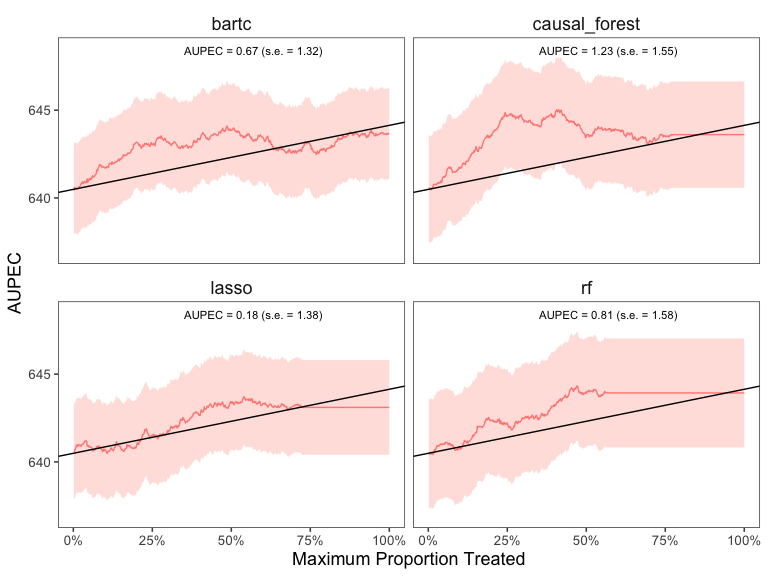
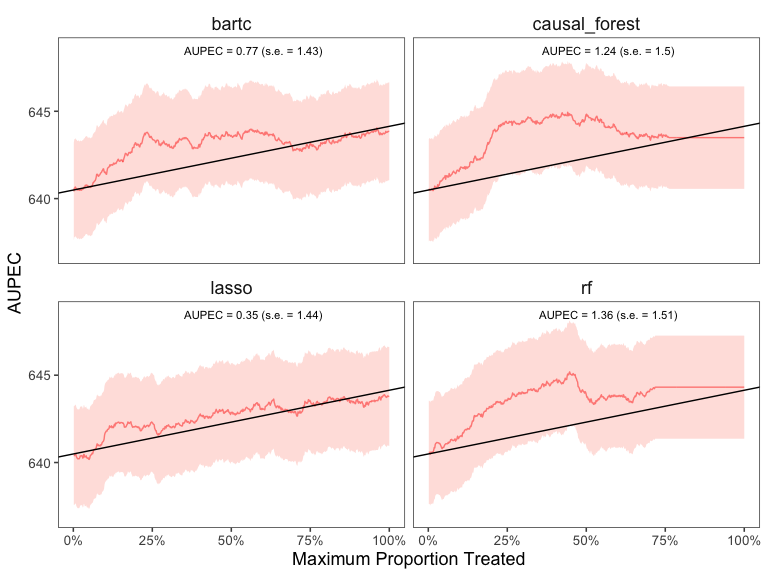
add additional params

diff --git a/README.md b/README.md
@@ -101,28 +101,35 @@ further information about `caret`, see
 # alternatively (with caret package)
 
 # specify the trainControl method
-fitControl <- caret::trainControl(## 10-fold CV
+fitControl <- caret::trainControl(## 3-fold CV
                            method = "repeatedcv",
                            number = 3,
-                           ## repeated ten times
+                           ## repeated 3 times
                            repeats = 3)
+
+# specify the tuning grid
+gbmGrid <-  expand.grid(interaction.depth = c(1, 5, 9), 
+                        n.trees = (1:30)*50, 
+                        shrinkage = 0.1,
+                        n.minobsinnode = 20)
 
 # estimate ITR
 fit_caret <- estimate_itr(
-               treatment = treatment,
-                form = user_formula,
-               data = star_data,
-               algorithms = c("rf"),
-               budget = 0.2,
-               ratio = 0.7,
-               preProcess = NULL, # pre-processing predictors
-               tuneGrid = NULL, # tuning values
-               tuneLength = 1, # granularity in tuning
-               trControl = fitControl # trainControl method)
-                )
+              treatment = "treatment",
+              form = user_formula,
+              trControl = fitControl,
+              data = star_data,
+              algorithms = c("gbm"),
+              budget = 0.2,
+              ratio = 0.7,
+              tuneGrid = gbmGrid,
+              verbose = FALSE)
 
-
+# evaluate ITR
 est_caret <- evaluate_itr(fit_caret)
+
+# check the final model
+est_caret$estimates$models$gbm$finalModel
 ```
 
 The`summary()` function displays the following summary statistics: (1)
@@ -142,26 +149,26 @@ design are given in [Imai and Li
 summary(est)
 #> ── PAPE ────────────────────────────────────────────────────────────────────────
 #>   estimate std.deviation     algorithm statistic p.value
-#> 1    -0.44           1.1 causal_forest     -0.42    0.67
+#> 1    -0.49          0.95 causal_forest     -0.51    0.61
 #> 
 #> ── PAPEp ───────────────────────────────────────────────────────────────────────
 #>   estimate std.deviation     algorithm statistic p.value
-#> 1      3.6           1.3 causal_forest       2.7  0.0061
+#> 1      1.8           1.1 causal_forest       1.6     0.1
 #> 
 #> ── PAPDp ───────────────────────────────────────────────────────────────────────
 #> data frame with 0 columns and 0 rows
 #> 
 #> ── AUPEC ───────────────────────────────────────────────────────────────────────
 #>   estimate std.deviation     algorithm statistic p.value
-#> 1      2.5          0.97 causal_forest       2.6    0.01
+#> 1      1.2          0.84 causal_forest       1.5    0.15
 #> 
 #> ── GATE ────────────────────────────────────────────────────────────────────────
 #>   estimate std.deviation     algorithm group statistic p.value upper lower
-#> 1     -9.6           109 causal_forest     1    -0.088    0.93  -176   182
-#> 2    -20.4           108 causal_forest     2    -0.188    0.85  -175   181
-#> 3    -36.4           110 causal_forest     3    -0.332    0.74  -177   183
-#> 4     -9.8           107 causal_forest     4    -0.092    0.93  -174   179
-#> 5     89.8           109 causal_forest     5     0.823    0.41  -177   182
+#> 1    120.3           109 causal_forest     1     1.108    0.27  -181   177
+#> 2   -110.1           108 causal_forest     2    -1.023    0.31  -179   175
+#> 3     -2.7           108 causal_forest     3    -0.025    0.98  -179   175
+#> 4   -111.7           107 causal_forest     4    -1.047    0.29  -177   174
+#> 5     94.7           108 causal_forest     5     0.876    0.38  -180   176
 
 # summarize estimates with model trained using caret
 # summary(est_caret)
@@ -256,10 +263,9 @@ estimating heterogeneous treatment effects across groups.
 
 ``` r
 # specify the trainControl method
-fitControl <- caret::trainControl(## 10-fold CV
+fitControl <- caret::trainControl(
                            method = "repeatedcv",
                            number = 3,
-                           ## repeated ten times
                            repeats = 3)
 # estimate ITR
 set.seed(2021)
@@ -267,12 +273,12 @@ fit_cv <- estimate_itr(
                treatment = "treatment",
                form = user_formula,
                data = star_data,
-               trcontrol = fitControl,
+               trControl = fitControl,
                algorithms = c(
                   "causal_forest", 
                   "bartc",
-                  "lasso",
-                  "rf"), # from caret package
+                  "lasso", # from caret package
+                  "rf"), 
                budget = 0.2,
                n_folds = 3)
 #> Evaluate ITR with cross-validation ...
@@ -290,56 +296,56 @@ est_cv <- evaluate_itr(fit_cv)
 summary(est_cv)
 #> ── PAPE ────────────────────────────────────────────────────────────────────────
 #>   estimate std.deviation     algorithm statistic p.value
-#> 1     0.55          0.73 causal_forest      0.75   0.452
-#> 2    -0.34          0.31         bartc     -1.10   0.272
-#> 3     0.17          1.07         lasso      0.16   0.871
-#> 4     1.41          0.80            rf      1.76   0.078
+#> 1     0.36          0.93 causal_forest      0.39   0.697
+#> 2    -0.20          0.40         bartc     -0.51   0.613
+#> 3    -0.29          0.22         lasso     -1.29   0.197
+#> 4     1.35          0.74            rf      1.83   0.067
 #> 
 #> ── PAPEp ───────────────────────────────────────────────────────────────────────
 #>   estimate std.deviation     algorithm statistic p.value
-#> 1      2.4          0.65 causal_forest      3.63 0.00029
-#> 2      2.0          0.82         bartc      2.41 0.01579
-#> 3     -0.2          0.63         lasso     -0.33 0.74490
-#> 4      1.2          0.67            rf      1.77 0.07603
+#> 1     2.38          0.66 causal_forest       3.6 0.00029
+#> 2     1.86          0.63         bartc       2.9 0.00326
+#> 3     0.87          1.08         lasso       0.8 0.42083
+#> 4     1.96          1.12            rf       1.8 0.07940
 #> 
 #> ── PAPDp ───────────────────────────────────────────────────────────────────────
 #>   estimate std.deviation             algorithm statistic p.value
-#> 1     0.38          0.68 causal_forest x bartc      0.56  0.5777
-#> 2     2.56          0.81 causal_forest x lasso      3.18  0.0015
-#> 3     1.16          0.67    causal_forest x rf      1.73  0.0844
-#> 4     2.18          1.13         bartc x lasso      1.92  0.0543
-#> 5     0.78          0.85            bartc x rf      0.93  0.3539
-#> 6    -1.40          0.81            lasso x rf     -1.73  0.0837
+#> 1     0.51          0.68 causal_forest x bartc      0.76    0.45
+#> 2     1.51          1.29 causal_forest x lasso      1.17    0.24
+#> 3     0.41          0.99    causal_forest x rf      0.42    0.68
+#> 4     0.99          0.79         bartc x lasso      1.25    0.21
+#> 5    -0.10          0.79            bartc x rf     -0.13    0.90
+#> 6    -1.09          1.35            lasso x rf     -0.81    0.42
 #> 
 #> ── AUPEC ───────────────────────────────────────────────────────────────────────
 #>   estimate std.deviation     algorithm statistic p.value
-#> 1     1.23           1.5 causal_forest      0.80    0.43
-#> 2     0.67           1.3         bartc      0.51    0.61
-#> 3     0.18           1.4         lasso      0.13    0.90
-#> 4     0.81           1.6            rf      0.51    0.61
+#> 1     1.24           1.5 causal_forest      0.83    0.41
+#> 2     0.77           1.4         bartc      0.54    0.59
+#> 3     0.35           1.4         lasso      0.24    0.81
+#> 4     1.36           1.5            rf      0.90    0.37
 #> 
 #> ── GATE ────────────────────────────────────────────────────────────────────────
 #>    estimate std.deviation     algorithm group statistic p.value upper lower
-#> 1     -98.6            59 causal_forest     1    -1.676   0.094   -93   100
-#> 2      54.8            60 causal_forest     2     0.921   0.357   -94   102
-#> 3      26.6            59 causal_forest     3     0.452   0.651   -93   100
-#> 4      -4.2            75 causal_forest     4    -0.056   0.955  -120   127
-#> 5      39.6           102 causal_forest     5     0.389   0.698  -164   171
-#> 6      55.5            86         bartc     1     0.645   0.519  -138   145
-#> 7    -192.6            75         bartc     2    -2.554   0.011  -120   128
-#> 8      38.2            86         bartc     3     0.445   0.656  -138   145
-#> 9      65.7            83         bartc     4     0.796   0.426  -132   139
-#> 10     51.4            89         bartc     5     0.577   0.564  -143   150
-#> 11    -14.4            94         lasso     1    -0.154   0.878  -150   158
-#> 12    -87.3            88         lasso     2    -0.994   0.320  -141   148
-#> 13     80.7            98         lasso     3     0.825   0.409  -157   165
-#> 14     12.6            59         lasso     4     0.214   0.830   -93   100
-#> 15     26.6            59         lasso     5     0.451   0.652   -93   101
-#> 16    -26.6            59            rf     1    -0.450   0.653   -93   101
-#> 17    -35.8            79            rf     2    -0.454   0.649  -126   133
-#> 18     18.4            99            rf     3     0.186   0.852  -159   167
-#> 19     28.1            59            rf     4     0.479   0.632   -93   100
-#> 20     34.0            59            rf     5     0.572   0.567   -94   102
+#> 1    -124.7            59 causal_forest     1    -2.122   0.034   -93   100
+#> 2      94.3            60 causal_forest     2     1.582   0.114   -94   102
+#> 3      13.1            59 causal_forest     3     0.222   0.825   -93   101
+#> 4       3.0            59 causal_forest     4     0.051   0.960   -93   101
+#> 5      32.5            98 causal_forest     5     0.332   0.740  -157   165
+#> 6     -14.7            82         bartc     1    -0.180   0.858  -131   138
+#> 7    -137.3            87         bartc     2    -1.587   0.113  -139   146
+#> 8      54.1            79         bartc     3     0.687   0.492  -126   133
+#> 9      85.3            74         bartc     4     1.156   0.248  -118   125
+#> 10     30.7            79         bartc     5     0.391   0.696  -126   133
+#> 11     71.6            59         lasso     1     1.210   0.226   -94   101
+#> 12     -4.1           101         lasso     2    -0.041   0.968  -162   169
+#> 13    -95.5            98         lasso     3    -0.973   0.331  -158   165
+#> 14     27.2            85         lasso     4     0.319   0.750  -137   144
+#> 15     19.0            62         lasso     5     0.303   0.762   -99   106
+#> 16      9.8            59            rf     1     0.168   0.867   -93   100
+#> 17    -20.1            59            rf     2    -0.338   0.735   -94   101
+#> 18    -61.4            59            rf     3    -1.046   0.296   -93   100
+#> 19     64.9            59            rf     4     1.101   0.271   -93   101
+#> 20     25.0            60            rf     5     0.418   0.676   -95   102
 ```
 
 We plot the estimated Area Under the Prescriptive Effect Curve for the
